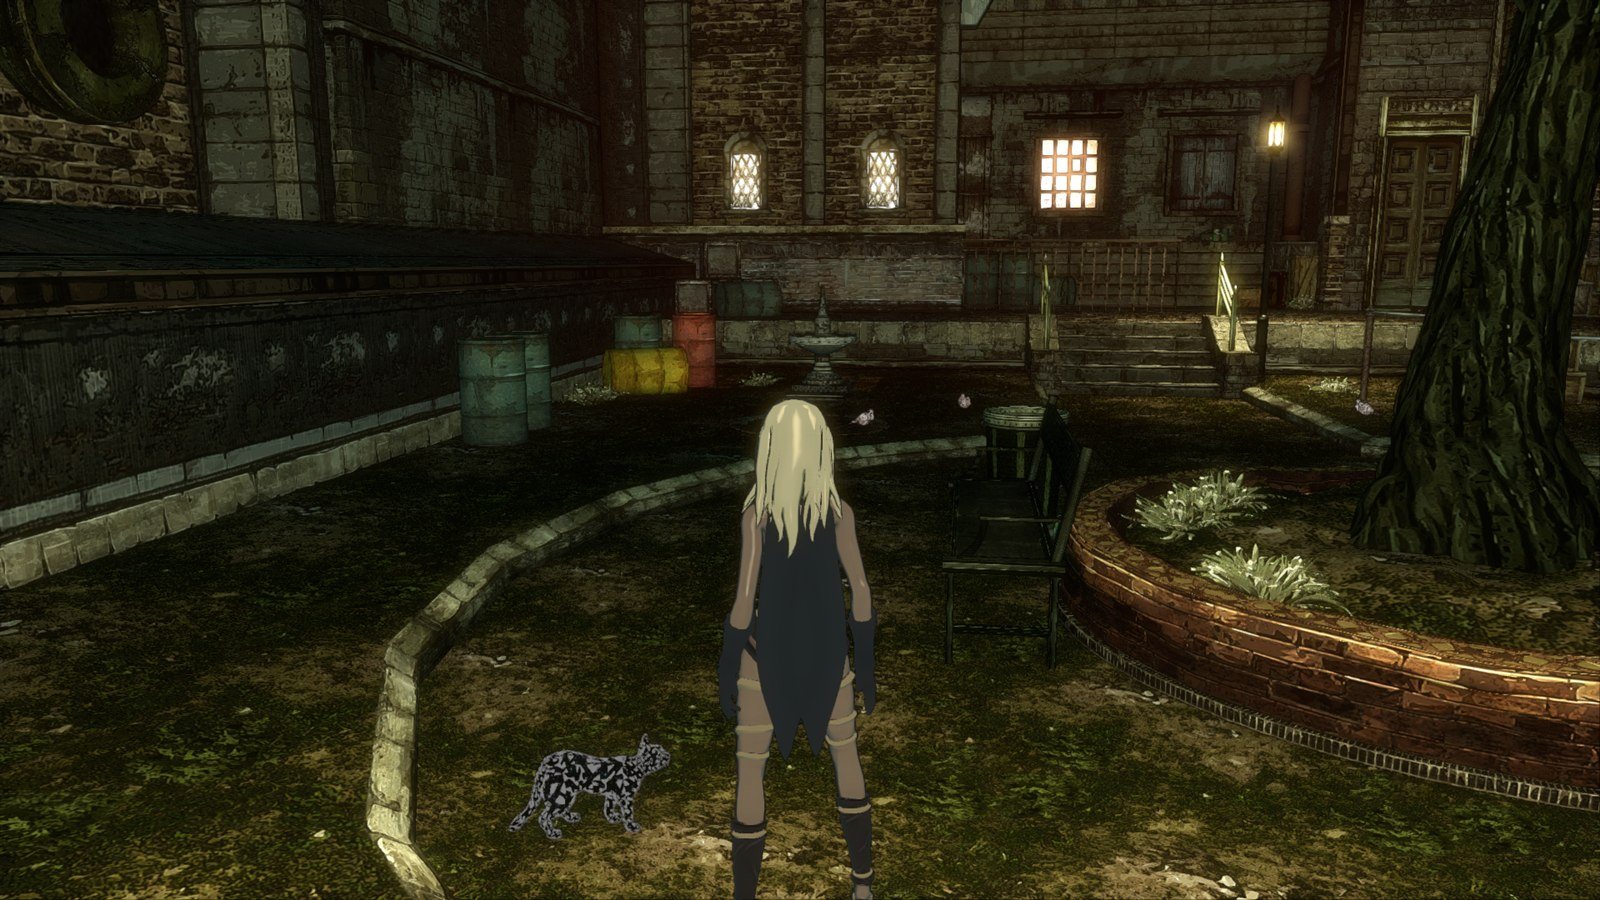
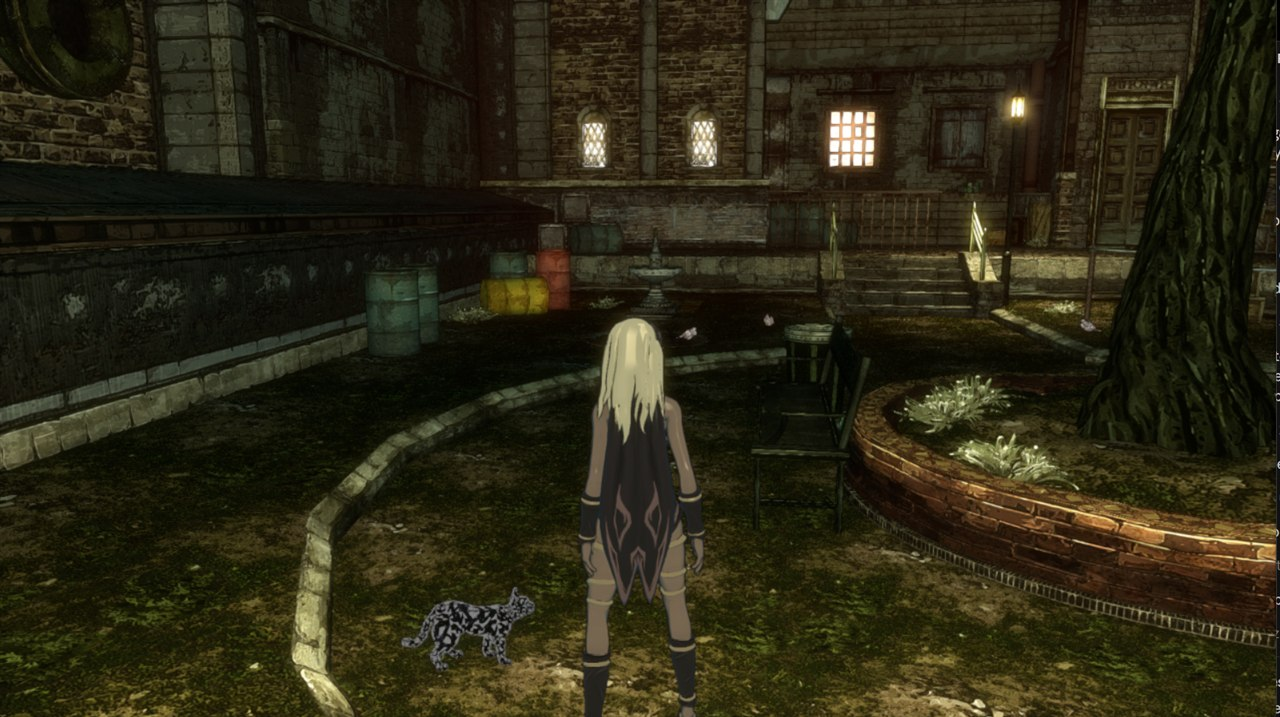
Geometry pipeline: dedicated ESGS/GSVS ring buffers
The GSVS ring sits 4 MB after the ESGS ring, and rings were bound by address
range, so GSVS accesses landed inside the ESGS buffer and large draws were
clipped. Rings are now two 64 MB buffers matched by exact V# base. Kat's
dress patterns and forearm ornaments render again.

diff --git a/loader/gpu/renderer.cpp b/loader/gpu/renderer.cpp
@@ -250,6 +250,49 @@ uint8_t CbSwizzle(uint32_t comps, uint32_t swap) {
     }
 }
 
+// Debug texture dumps: one BC1/BC2/BC3 block (dfmt 35/36/37) → 16 RGBA8 texels, row-major.
+void DecodeBcBlock(uint32_t dfmt, const uint8_t* b, uint8_t out[16][4]) {
+    const uint8_t* c = dfmt == 35 ? b : b + 8;
+    const uint16_t c0 = uint16_t(c[0] | (c[1] << 8)), c1 = uint16_t(c[2] | (c[3] << 8));
+    uint8_t pal[4][4];
+    auto expand = [](uint16_t v, uint8_t* o) {
+        o[0] = uint8_t(((v >> 11) & 31) * 255 / 31);
+        o[1] = uint8_t(((v >> 5) & 63) * 255 / 63);
+        o[2] = uint8_t((v & 31) * 255 / 31);
+        o[3] = 255;
+    };
+    expand(c0, pal[0]);
+    expand(c1, pal[1]);
+    for (int k = 0; k < 3; ++k) {
+        if (c0 > c1 || dfmt != 35) {
+            pal[2][k] = uint8_t((2 * pal[0][k] + pal[1][k]) / 3);
+            pal[3][k] = uint8_t((pal[0][k] + 2 * pal[1][k]) / 3);
+        } else {
+            pal[2][k] = uint8_t((pal[0][k] + pal[1][k]) / 2);
+            pal[3][k] = 0;
+        }
+    }
+    pal[2][3] = 255;
+    pal[3][3] = (c0 > c1 || dfmt != 35) ? 255 : 0;
+    const uint32_t bits = uint32_t(c[4]) | (uint32_t(c[5]) << 8) | (uint32_t(c[6]) << 16) | (uint32_t(c[7]) << 24);
+    for (int i = 0; i < 16; ++i) std::memcpy(out[i], pal[(bits >> (2 * i)) & 3], 4);
+    if (dfmt == 36) { // explicit 4-bit alpha
+        for (int i = 0; i < 16; ++i) out[i][3] = uint8_t(((b[i / 2] >> ((i & 1) * 4)) & 15) * 17);
+    } else if (dfmt == 37) { // interpolated alpha
+        uint8_t a[8] = {b[0], b[1]};
+        if (a[0] > a[1])
+            for (int k = 1; k < 7; ++k) a[k + 1] = uint8_t(((7 - k) * a[0] + k * a[1]) / 7);
+        else {
+            for (int k = 1; k < 5; ++k) a[k + 1] = uint8_t(((5 - k) * a[0] + k * a[1]) / 5);
+            a[6] = 0;
+            a[7] = 255;
+        }
+        uint64_t ab = 0;
+        for (int k = 0; k < 6; ++k) ab |= uint64_t(b[2 + k]) << (8 * k);
+        for (int i = 0; i < 16; ++i) out[i][3] = a[(ab >> (3 * i)) & 7];
+    }
+}
+
 struct TexFormatInfo {
     VkFormat format = VK_FORMAT_UNDEFINED;
     uint32_t bytes = 0; // per texel, or per 4x4 block when block = true
@@ -616,15 +659,17 @@ private:
                              VkDescriptorSet& set, uint32_t max_records);
 
     // Legacy geometry pipeline (ES → GS → copy VS). The ES and the GS run as compute passes that write the
-    // ESGS / GSVS rings; those rings live in GPU buffers (only shaders read them), keyed by the V# base.
+    // ESGS / GSVS rings; those rings live in two GPU buffers (only shaders read them) sized for a whole draw:
+    // the hardware streams waves through 4 MB rings, we shade every wave of the draw at once.
     struct GsDraw {
         bool active = false;
         uint64_t aux_off = 0, aux_size = 0; // GS emit info (read by the copy VS)
         uint32_t nprim = 0, verts = 0;      // copy draw: instances × vertices
         uint32_t params[4] = {};            // ShaderKey::gs_params for the copy VS
     } gs_;
-    static constexpr uint64_t kGpuRingSize = 8ull << 20;
-    std::map<uint64_t, vk::Buffer> gpu_rings_;
+    static constexpr uint64_t kGpuRingSize = 64ull << 20;
+    vk::Buffer ring_buf_[2];                // ESGS, GSVS
+    uint64_t ring_base_[2] = {};            // guest V# base of each ring for the current draw
     uint64_t aux_off_ = 0, aux_size_ = 0;   // aux binding of the next BindShaderResources (gs_mode shaders)
     bool RunEsGs(const DrawInfo& d, const Regs& r);
     bool RunGsPass(ShaderKey key, const uint32_t* user, uint64_t aux_off, uint64_t aux_size, uint32_t groups);
@@ -1190,8 +1235,33 @@ Texture* Renderer::GetTexture(const uint32_t* t, uint32_t& kind) {
                     bc.imageExtent = {w, h, d3};
                     vkCmdCopyBufferToImage(c, ring_.buffer, tex->img.image, VK_IMAGE_LAYOUT_TRANSFER_DST_OPTIMAL, 1, &bc);
                     stats_.tex_uploads++;
-                    if (tiling != 8 && tiling != 31 && !micro) stats_.skip_reasons["texture uploaded without detiling"]++;
+                    if (tiling != 8 && tiling != 31 && !micro) {
+                        stats_.skip_reasons["texture uploaded without detiling"]++;
+                        TraceNote("renderer: texture 0x%llx %ux%u fmt %u/%u tiling %u type %u uploaded without detiling", (unsigned long long)addr, w, h, dfmt, nfmt, tiling, type);
+                    }
                     static const bool dump_tex = std::getenv("GR_DUMP_TEX") != nullptr;
+                    if (dump_tex && fi.block && (dfmt >= 35 && dfmt <= 37) && layers * d3 == 1) {
+                        // BC1/BC2/BC3 → RGBA8 for inspection
+                        std::vector<uint8_t> px(size_t(w) * h * 4);
+                        const uint8_t* srcp = RingPtr(off);
+                        const uint32_t row_blocks = micro ? bw : std::max(bpitch, bw);
+                        for (uint32_t by = 0; by < bh; ++by)
+                            for (uint32_t bx = 0; bx < bw; ++bx) {
+                                const uint8_t* blk = srcp + (size_t(by) * row_blocks + bx) * fi.bytes;
+                                uint8_t rgba[16][4];
+                                DecodeBcBlock(dfmt, blk, rgba);
+                                for (uint32_t k = 0; k < 16; ++k) {
+                                    const uint32_t x = bx * 4 + (k & 3), y = by * 4 + (k >> 2);
+                                    if (x < w && y < h) std::memcpy(&px[(size_t(y) * w + x) * 4], rgba[k], 4);
+                                }
+                            }
+                        std::error_code ec;
+                        fs::create_directories(ExeDir() / "textures", ec);
+                        char name[96];
+                        std::snprintf(name, sizeof name, "tex_%010llx_%llu_bc%u.png", (unsigned long long)addr,
+                                      (unsigned long long)submit_index_, dfmt - 34);
+                        stbi_write_png((ExeDir() / "textures" / name).string().c_str(), int(w), int(h), 4, px.data(), int(w * 4));
+                    }
                     if (dump_tex && !fi.block && (fi.bytes == 1 || fi.bytes == 4) && layers * d3 == 1) {
                         std::vector<uint8_t> px(size_t(w) * h * 4);
                         const uint8_t* srcp = RingPtr(off);
@@ -1332,9 +1402,9 @@ bool Renderer::BindShaderResources(ShaderEntry* e, const std::vector<uint32_t>& 
             const uint32_t stride = (d[1] >> 16) & 0x3FFF;
             // geometry-pipeline rings stay on the GPU
             bool ring_bound = false;
-            for (auto& [rb, rbuf] : gpu_rings_)
-                if (base >= rb && base < rb + kGpuRingSize && ((base - rb) & 255) == 0) {
-                    bufs[i + 1] = {rbuf.buffer, base - rb, kGpuRingSize - (base - rb)};
+            for (int k = 0; k < 2; ++k)
+                if (ring_base_[k] && base == ring_base_[k] && ring_buf_[k].buffer) {
+                    bufs[i + 1] = {ring_buf_[k].buffer, 0, kGpuRingSize};
                     wr.descriptorType = VK_DESCRIPTOR_TYPE_STORAGE_BUFFER;
                     wr.pBufferInfo = &bufs[i + 1];
                     writes.push_back(wr);
@@ -1584,13 +1654,16 @@ bool Renderer::RunEsGs(const DrawInfo& d, const Regs& r) {
     if (!tbl || !SafeCopy(t, tbl, sizeof t)) { Skip("geometry pipeline: ring table"); return false; }
     const uint64_t esgs = uint64_t(t[0x08]) | (uint64_t(t[0x09] & 0xFF) << 32);
     const uint64_t gsvs = uint64_t(t[0x10]) | (uint64_t(t[0x11] & 0xFF) << 32);
-    for (uint64_t base : {esgs, gsvs}) {
-        if (!base) { Skip("geometry pipeline: ring table"); return false; }
-        if (!gpu_rings_.count(base)) {
-            gpu_rings_[base] = dev_.CreateBuffer(kGpuRingSize, VK_BUFFER_USAGE_STORAGE_BUFFER_BIT, false);
-            TraceNote("renderer: geometry ring at 0x%llx", (unsigned long long)base);
-        }
+    if (!esgs || !gsvs || esgs == gsvs) { Skip("geometry pipeline: ring table"); return false; }
+    if (uint64_t((count + 63) / 64) * 64 * es_item * 4 > kGpuRingSize ||
+        uint64_t((nprim + 63) / 64) * 64 * gsvs_item * 4 > kGpuRingSize) {
+        Skip("geometry pipeline: draw too large for the rings");
+        return false;
     }
+    for (int k = 0; k < 2; ++k)
+        if (!ring_buf_[k].buffer) ring_buf_[k] = dev_.CreateBuffer(kGpuRingSize, VK_BUFFER_USAGE_STORAGE_BUFFER_BIT, false);
+    ring_base_[0] = esgs;
+    ring_base_[1] = gsvs;
 
     // ES pass: aux = [count, indices...]
     const uint64_t es_aux = Alloc(uint64_t(count + 1) * 4, 16);

diff --git a/docs/PLAN.md b/docs/PLAN.md
@@ -304,7 +304,11 @@ unsupported types, thunk self-test passed, Vulkan window at 60 Hz.
      emit / cut are counted per invocation and stored (count | cut mask << 8) in an aux buffer;
    - buffer accesses now implement GCN swizzled addressing (V# swizzle_enable, element size, index
      stride, ADD_TID) in `buf_addr`, so the ring layouts are exactly the hardware ones;
-   - the rings are GPU buffers keyed by their V# base (only shaders touch them);
+   - the rings are two dedicated GPU buffers (ESGS, GSVS, 64 MB each), bound by exact V# base match
+     for the current draw (only shaders touch them). The game's GSVS ring sits 4 MB after the ESGS
+     ring; an earlier version bound rings by address range, so the GSVS landed inside the ESGS
+     buffer and large draws were clipped. Fixing it brought back the texture coordinates of the
+     characters: Kat's dress patterns and forearm ornaments now render (2026-10-18);
    - the draw becomes the copy VS over a triangle list: instance = GS invocation, vertex = corner
      of triangle j of its strip; v0 = the GSVS offset of strip vertex e; triangles past the emitted
      count or across a cut get a zero position.
@@ -313,6 +317,13 @@ unsupported types, thunk self-test passed, Vulkan window at 60 Hz.
    Remaining for the geometry pipeline: only triangle-list input is handled; GS instancing, streams
    other than 0 and output primitive types other than strips are not; tessellation (LS/HS) is not
    emulated.
+   Open: Dusty (the cat) still looks wrong (grey-blue blotches instead of a black body with stars
+   and a light outline). Draw: VS 0x24e617d00 / PS 0x24e622a00, ES 0x24e612d00, GS 0x24e617f00;
+   diffuse 256x256 BC3 (alpha-masked, grey-blue clouds in RGB) and a 256x256 BC1 starfield sampled
+   at param4 = a 2x2 UV transform of the mesh UV (ES, cbuffer dwords 0x1c-0x2d). The PS adds
+   star * diffuse.a * constant to diffuse * lighting; the body colour must come from the material
+   constants or a later pass. Compare with a real frame before changing anything.
+   The missing movie between the apple and gameplay is `mp4/ep00-01c.mp4` (AvPlayer is a stub).
    **Kat investigation, 2026-10-17 (afternoon), state when stopped:**
    - Auto-exposure fixed: the game reads the 1x1 average-luminance render target on the CPU
      (eboot+0x27358f). Tiny colour targets (<= 64 px) are now copied back to guest memory after
